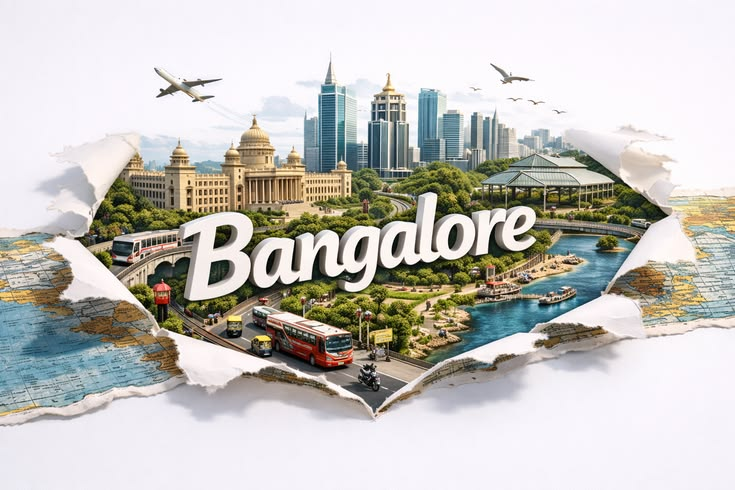
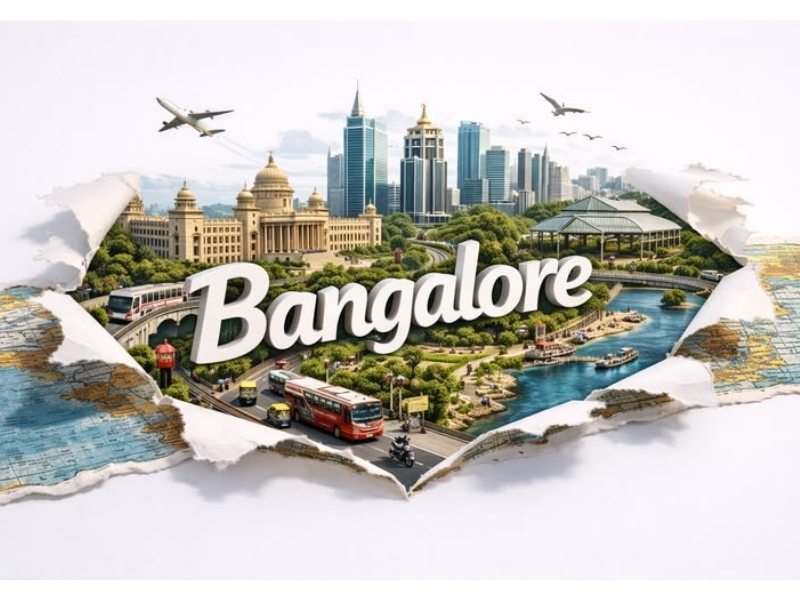
chore(geography): add image cache-busting using updated_at timestamp

diff --git a/src/features/home/components/PopularLocations.tsx b/src/features/home/components/PopularLocations.tsx
@@ -62,7 +62,10 @@ export async function PopularLocations() {
             const { data } = supabase.storage
               .from('city-images')
               .getPublicUrl(city.cover_image_storage_path);
-            imageUrl = data.publicUrl;
+            const cacheBuster = city.updated_at
+              ? `?v=${new Date(city.updated_at).getTime()}`
+              : '';
+            imageUrl = `${data.publicUrl}${cacheBuster}`;
           }
 
           return (
